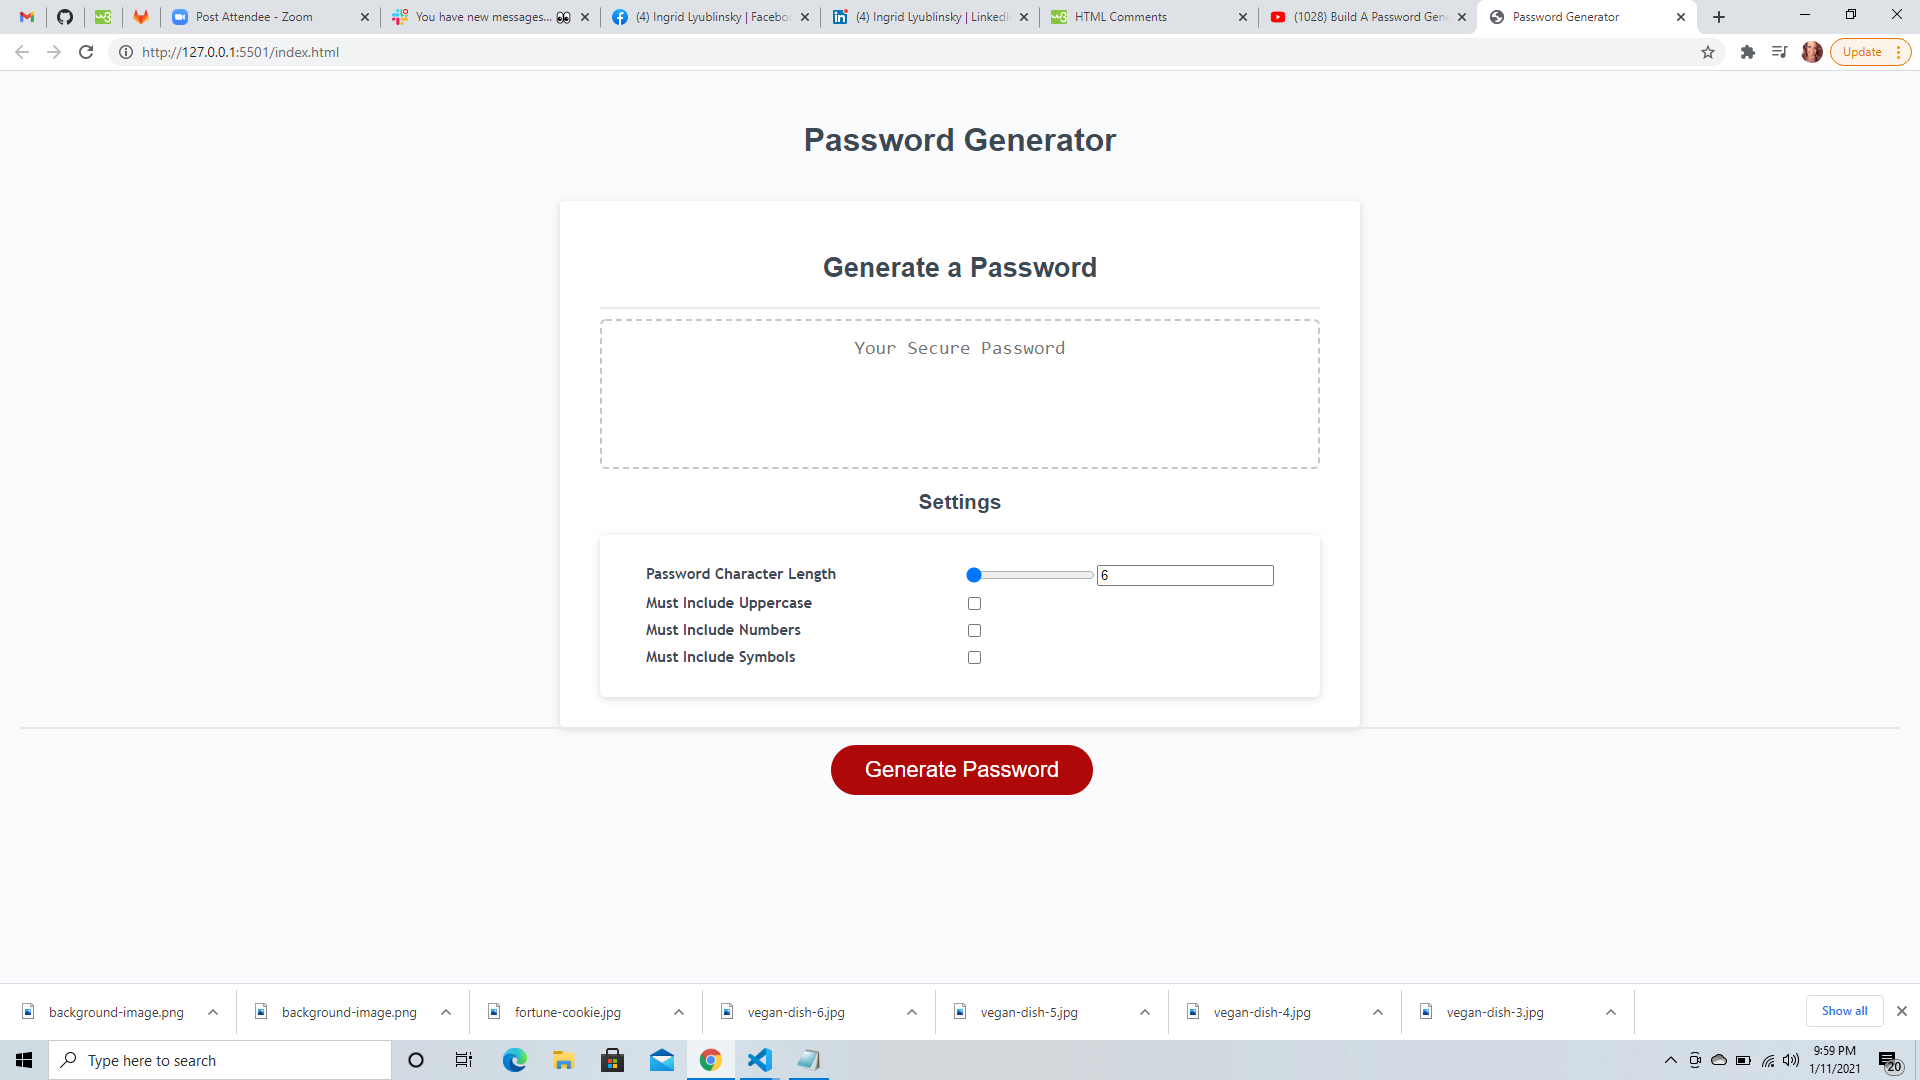
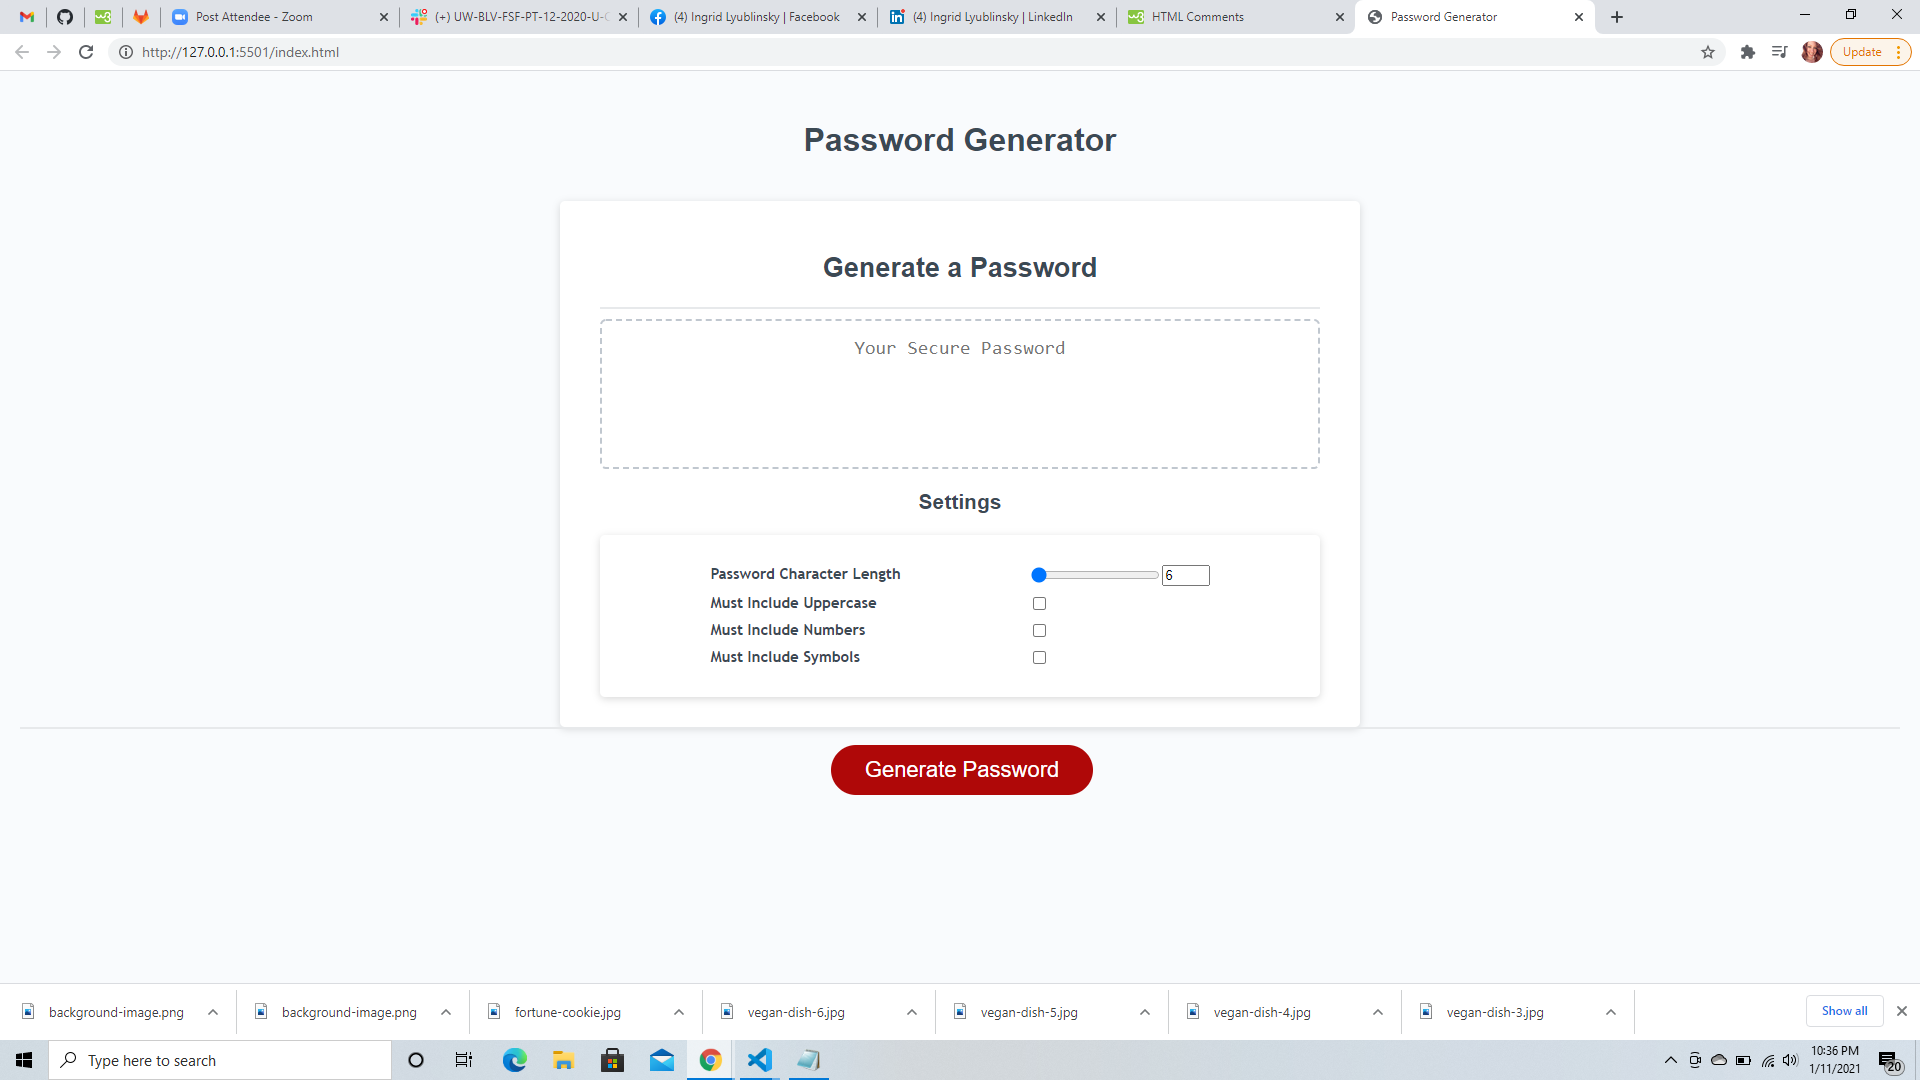
added my java script and updated my html. Got stuck on how to edit my prompt in css, so reverted to something a little easier for now that I understand.

diff --git a/script.js b/script.js
@@ -1,14 +1,76 @@
-// Assignment Code
-var generateBtn = document.querySelector("#generate");
+  
+// Set static variables
+  
+var abcUpper = "ABCDEFGHIJKLMNOPQRSTUVWXYZ";
+var abcUpperArr = abcUpper.split("");
+var abcLower = "abcdefghijklmnopqrstuvwxyz";
+var abcLowerArr = abcLower.split("");
+var num = "0123456789";
+var numArr = num.split("");
+var sym = "!#$%&\()*+,-./:;<=>?@^[\\]^_`{|}~";
+var symArr = sym.split("");
 
-// Write password to the #password input
-function writePassword() {
-  var password = generatePassword();
-  var passwordText = document.querySelector("#password");
+//  Prompt instruction for the user to begin
 
-  passwordText.value = password;
+window.onload = alert("Please click the 'Generate Password Button' to start!");
 
+// Main function = Password Generation
+
+function generatePass(){
+ var allChars = [];
+ var resultPass = "";
+
+// Set dynamic variables
+
+ var form = prompt("How many characters would you like your password to be?");
+
+ if(Totlength <8 || Totlength > 128){
+     alert("Must be between 8 and 128 characters long!\nPlease start over.");
+ }
+
+// Confirm the rest of character conditions
+ 
+ else{
+     if(confirm("Would you like your password to contain upper case letters?")){
+         Array.prototype.push.apply(allChars, abcUpperArr);
+     }
+
+     if(confirm("Would you like your password to contain lower case letters?")){
+         Array.prototype.push.apply(allChars, abcLowerArr);
+     }
+
+     if(confirm("Would you like your password to contain numbers?")){
+         Array.prototype.push.apply(allChars, numArr);
+     }
+
+     if(confirm("Would you like your password to contain symbols?")){
+         Array.prototype.push.apply(allChars, symArr);
+     }
+
+     if(allChars.length===0){
+         alert("You must select at lease 1 type of characters to generate a password!\nPlease start over.");
+     }
+
+// Run for loop to use confirmed information and generate password as a result
+
+     else{
+         for(var i=0; i<Totlength; i++){
+             var random = Math.floor(Math.random()*allChars.length);
+             resultPass += allChars[random];
+         }
+     }
+     }
+
+// Display the result
+
+     document.getElementById("password").innerHTML = resultPass;
 }
 
-// Add event listener to generate button
-generateBtn.addEventListener("click", writePassword);
+// Bonus! function to copy password to clipboard
+
+function copyPass(){
+
+ document.querySelector("textarea").select();
+ document.execCommand("Copy");
+ alert("Password copied to clipboard!");
+}

diff --git a/index.html b/index.html
@@ -14,7 +14,7 @@
       </header>
       <div class="card">
         <div class="card-header">
-          <h2>Generate a Password</h2>
+          <h2 id="textDisplayBox" id="passwordDispaly">Generate a Password</h2>
         </div>
         <div class="card-body">
           <textarea
@@ -25,18 +25,21 @@
           ></textarea>
         </div>
         <!--Adding a card within the card with password options-->
-            <h3><Strong>Settings</Strong></h3>
-          <div class="container">
+            <h3 class='card'><Strong>Settings</Strong></h3>
+          <div class="card">
             <div class="row">
-          </div>
-          <form class="form">
+          <form id="form">
             <!--Added a rang between 6 and 20 characters-->
-            <label for="passwordLengthNumber">Password Character Length</label>
+            <label for="passwordCharachterLength">Password Character Length</label>
           <div class="range-box">
-          <input type="range" min="6" max="20" value="6" id="passwordLengthRange">
-          <input class="number-box" value="6" id="passwordLengthNumber">
+            <!--Minimmum of 8 charachters completed.-->
+          <h5>8</h5>
+          <input type="range" min="8" max="128" value="8" id="passwordLengthRange">
+          <h5>128</h5>
           </div>
           <!--Added a serries of checkbox options-->
+           <label for="mustLowercase">Must Include Lowercase</label>
+            <input type="checkbox" id="mustIncludeLowercase">
             <label for="mustIncludeUppercase">Must Include Uppercase</label>
             <input type="checkbox" id="mustIncludeUppercase">
             <label for="mustIncludeNumbers">Must Include Numbers</label>
@@ -47,8 +50,10 @@
           </form>
         </div>
       </div>
+    </div>
         <div class="card-footer">
-          <button id="generate" class="btn">Generate Password</button>
+          <button onClick="generatePass()" type="button" class="btn">Generate Password</button>
+          <button onclick="copyPass()" type="button" class="btn">Copy to clipboard</button>
         </div>
       </div>
     </div>

diff --git a/style.css b/style.css
@@ -60,11 +60,12 @@ header {
   text-align: left;
 }
 
-.form {
+/* styling for password generation options added */
+.form::-ms-fill {
   display: grid;
   grid-template-columns: auto auto;
   row-gap: .5rem;
-  column-gap: 8rem;
+  column-gap: 6rem;
   justify-content: center;
   align-items: right;
   border-radius: 5px;

diff --git a/README.md b/README.md
@@ -3,6 +3,6 @@ Password Generator
 
 - Started README file and uploaded all the initial html, css, and javascript given for this assignement.
 
-- Added password character option with a minimum of 6 characters and a maximum of 20 characters. 
+- Added password character option with a minimum of 6 characters and a maximum of 20 characters.
 
 - Added a a criteria checkboxes and styled the CSS for the page.
